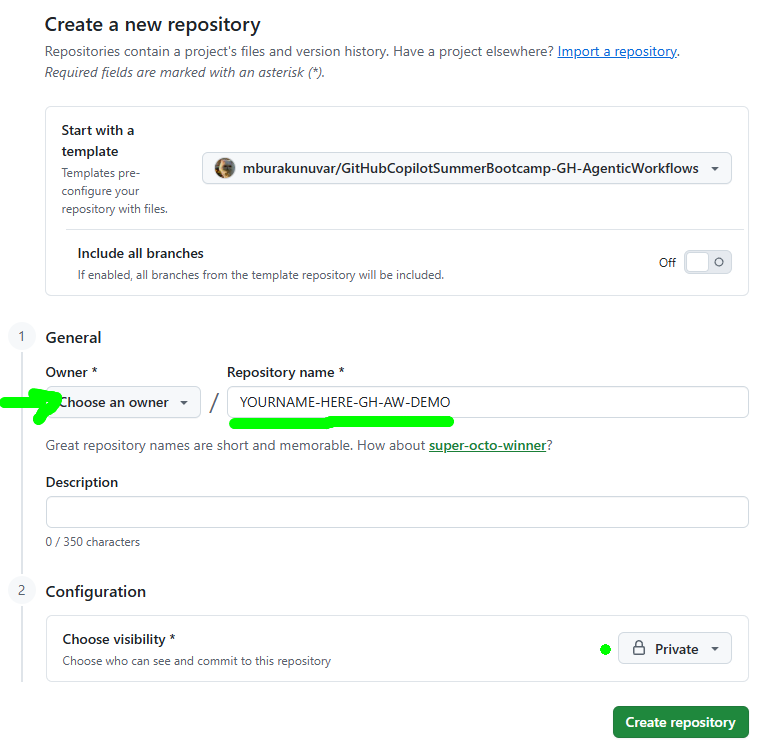
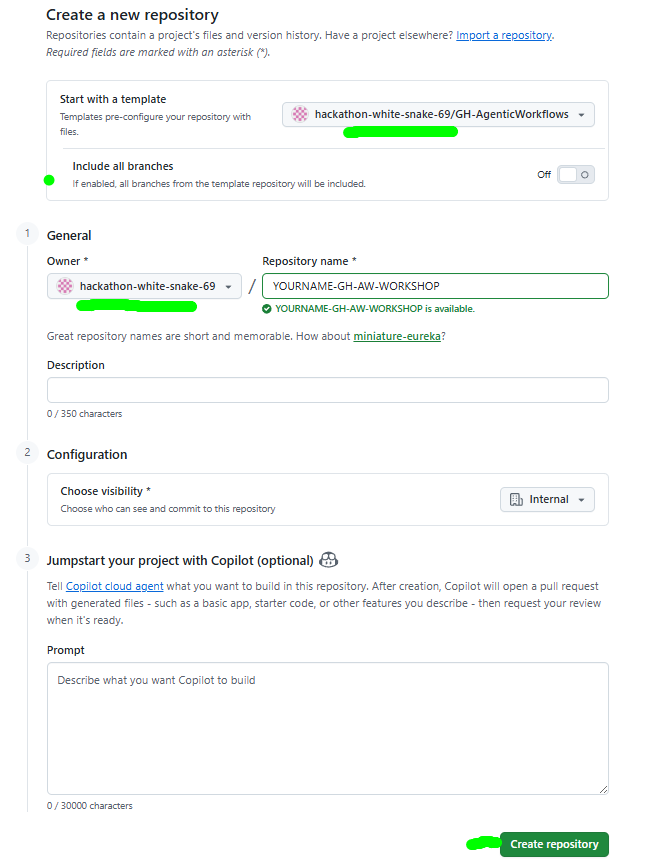
Enhance 'ready-for-part2' workflow and update README for clarity on automation processes and Copilot authentication

diff --git a/appendix.md b/appendix.md
@@ -1,5 +1,47 @@
 ## APPENDIX
 
+### Copilot Authentication for GitHub Agentic Workflows
+
+Agentic workflows using the Copilot engine must authenticate Copilot inference. Choose one of these methods:
+
+| Method | Use when | Credential and billing |
+|---|---|---|
+| `copilot-requests: write` | The workflow runs in an organization repository with Copilot CLI organization billing enabled | Uses the run-scoped `GITHUB_TOKEN`; usage is billed to the organization |
+| `COPILOT_GITHUB_TOKEN` | The workflow runs in a personal repository, or organization billing is unavailable | Uses a user-owned fine-grained PAT; usage depends on that user's Copilot access |
+
+**Prefer `copilot-requests: write` when it is available.** It avoids storing and rotating a long-lived secret:
+
+```yaml
+---
+permissions:
+  contents: read
+  copilot-requests: write
+---
+```
+
+After changing workflow frontmatter, run `gh aw compile` and commit the regenerated lock file. Organization owners must also allow Copilot CLI usage billed to the organization. Upgrade an older Agentic Workflows extension with:
+
+```bash
+gh extension upgrade aw
+```
+
+Use a PAT only as the fallback. The token must:
+
+- Be a **fine-grained personal access token** owned by a user, not an organization.
+- Have **Account permissions > Copilot Requests: Read**.
+- Belong to an account with Copilot inference access.
+- Be stored as the Actions secret `COPILOT_GITHUB_TOKEN`, never in workflow source.
+
+If `copilot-requests: write` is present, gh-aw ignores `COPILOT_GITHUB_TOKEN` and `GH_AW_GITHUB_TOKEN` for inference. Remove the permission and recompile before switching to PAT authentication. OAuth user tokens (`gho_...`) are not supported.
+
+These settings authenticate **Copilot inference only**. Repository access for GitHub API operations is separate:
+
+- `GITHUB_TOKEN` supplies the workflow's normal, run-scoped GitHub permissions.
+- `GH_AW_GITHUB_TOKEN` can provide additional GitHub API access when the default token is insufficient; it does not replace `COPILOT_GITHUB_TOKEN` for inference.
+- Codespaces permissions in `.devcontainer/devcontainer.json` apply to commands run from the Codespace, not to Copilot inference in GitHub Actions.
+
+Repository-wide **Read and write permissions** are not required merely to authenticate Copilot. Grant only the workflow and safe-output permissions needed by the exercise.
+
 ### Creating a Personal Access Token (PAT) for Personal Repositories
 
 1. Set up the `COPILOT_GITHUB_TOKEN` repository secret that the Copilot engine will use later in the exercise.
@@ -43,6 +85,36 @@
      <p align="center">
      <img src="images/actions-enable1.png" width="85%" alt="GitHub Actions permissions set to allow all actions and reusable workflows">
      </p>
+
+
+## The two axes at a glance
+
+Copilot auth and the **Workflow permissions** setting (Settings → Actions → General) point in opposite directions. They are never substitutes for each other.
+
+```text
+                    ┌─────────────────────┐
+   Copilot API  ◄───┤                     ├───►  GitHub repo
+   (inference)      │  Agentic workflow   │      (issues, PRs, code)
+                    │  running in Actions │
+                    └─────────────────────┘
+        ▲                                              ▲
+        │                                              │
+  copilot-requests: write                    Workflow permissions
+  or COPILOT_GITHUB_TOKEN                    (org/repo settings page)
+                                             + permissions: frontmatter
+
+  "Can the agent THINK?"                     "Can the agent WRITE?"
+```
+
+| | Copilot auth | Workflow permissions |
+|---|---|---|
+| Direction | **Outbound** — Actions → Copilot API | **Inbound** — Actions → GitHub repo |
+| Question | Can it do AI reasoning? | Can it read/change repo content? |
+| Configured in | Workflow frontmatter, or a repo secret | Org/repo Actions settings + `permissions:` frontmatter |
+| Failure symptom | `401` at the inference step | `403 Resource not accessible by integration` |
+| Costs money | Yes — Copilot billing | No |
+
+
 
 ## Resources
 - [Agentic workflows no longer need a personal access token](https://github.blog/changelog/2026-06-11-agentic-workflows-no-longer-need-a-personal-access-token/)

diff --git a/README.md b/README.md
@@ -78,7 +78,7 @@ Briefly explain #codebase.
 ```
 
 ```text
-Are there any agentic workflows in this repository? Do not take any action.
+Is agentic workflows installed in this repository? Do not take any action.
 ```
 
 <p align="center">
@@ -143,9 +143,14 @@ git push origin main
 ```
 
 > [!NOTE]
-> **Status update: so far, so good.** After this push, open the repository's
-> **Actions** tab, select **ready-for-part2**, choose **Run workflow**, and wait
-> for it to finish. Then update your Codespace:
+> **Status update: so far, so good.**
+> After this first push, the **ready-for-part2** GitHub Actions workflow runs
+> automatically. It archives sections 1–3, shortens this README for the rest of
+> the workshop, and then disables itself.
+> If the run fails, open the **Actions** tab, select **ready-for-part2**, and
+> choose **Run workflow** to retry it manually.
+
+Then update your Codespace:
 
 ```bash
 git pull --ff-only origin main
@@ -156,8 +161,7 @@ git pull --ff-only origin main
 > Command Palette and run **Developer: Reload Window**.
 
 
-> [!OPTIONAL]
-> There is a deterministic Github Action workflow in this repository that you can manually trigger. It'll make the README.md leaner and easier to follow for the rest of workshop. This simple example is provided only to demonstrate that Github Action and GH AW can co-exist in the same repo. 
+
 
 
 
